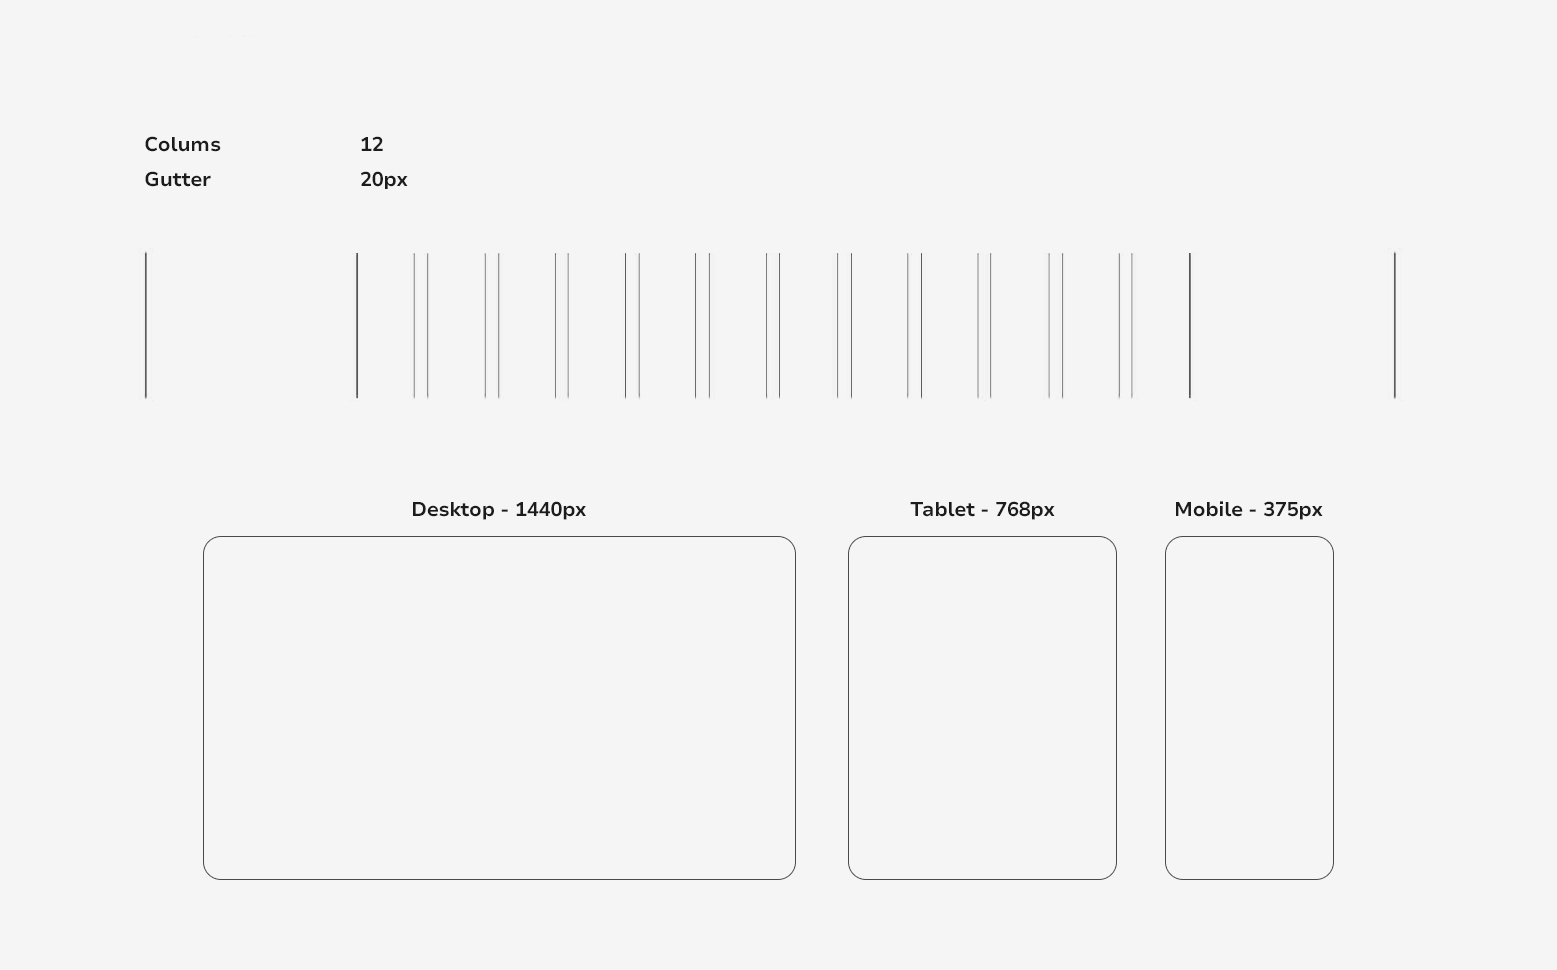
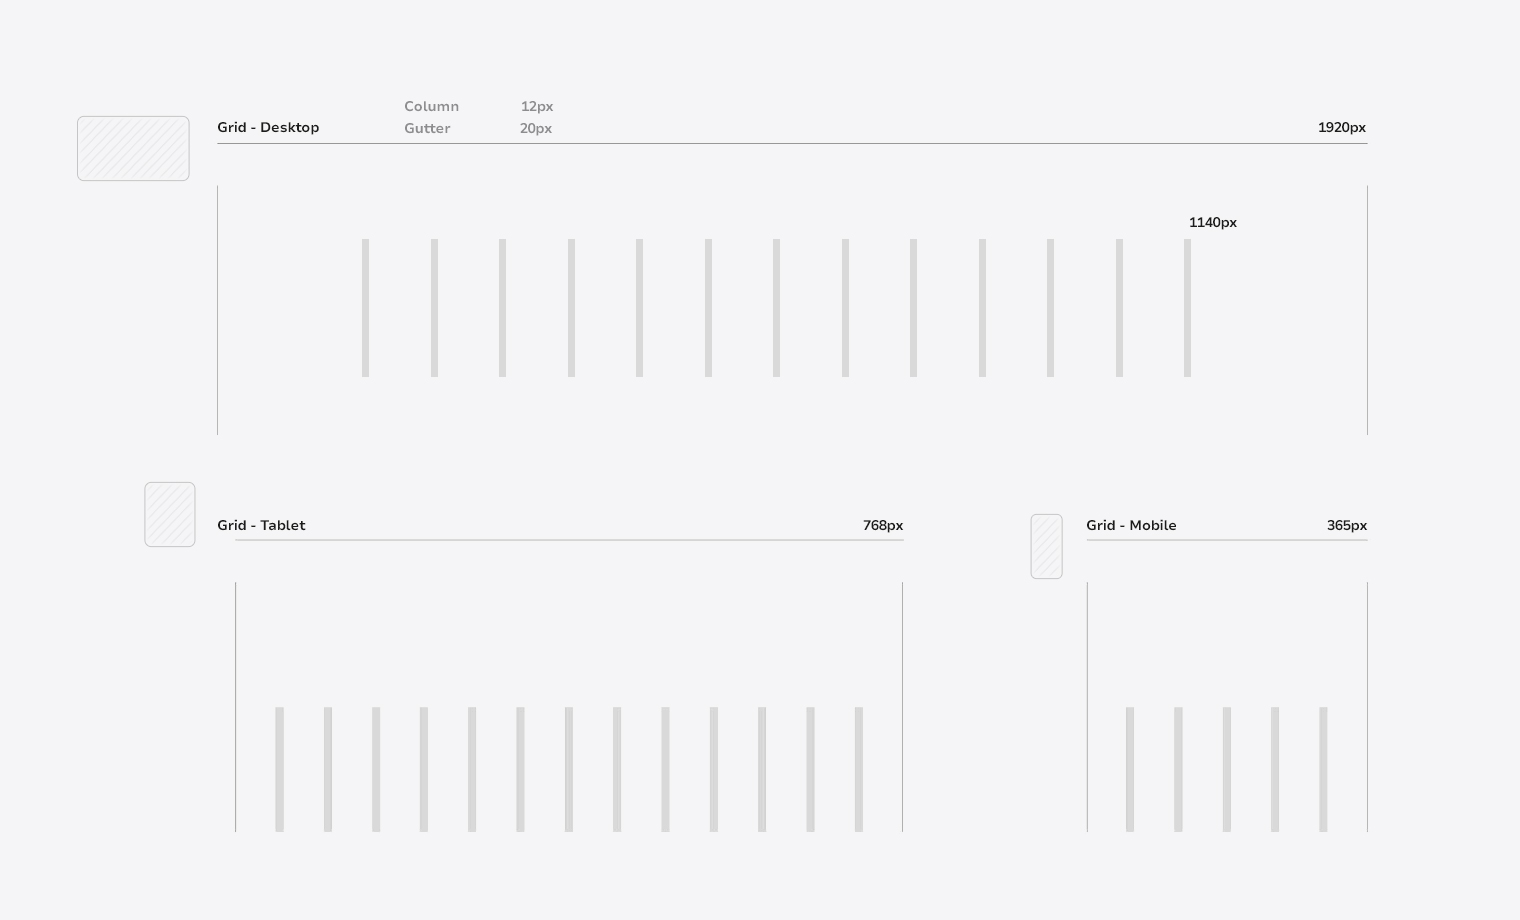
050823

diff --git a/project/goldcoasthk.html b/project/goldcoasthk.html
@@ -182,8 +182,6 @@
           <p class="observable spacing-sub-title">Reinforce the selling point of its extensive children’s facilities and array of activities and attractions</p>
 
           <p class="observable spacing-sub-title">Visually intense and vibrant flow</p>
-
-
         </ul>
       </div>
     </div>
@@ -261,12 +259,12 @@
 
 
     <div class="body-width-small observable spacing-sub-title">
-      <a class="image-popup-fit-width" title="Click on image to enlarge/reduce it"  href="../images/projects/goldcoasthk/color.jpg"><img class="observable lazy" data-src="../images/projects/goldcoasthk/grid.jpg" /></a>
+      <a class="image-popup-fit-width" title="Click on image to enlarge/reduce it"  href="../images/projects/goldcoasthk/grid.jpg"><img class="observable lazy" data-src="../images/projects/goldcoasthk/grid.jpg" /></a>
     </div>
 
 
     <div class="copy-width spacing-medium">
-        <p class="observable h1 spacing-sub-title txtpoint">Grid & Size</p>
+        <p class="observable h1 spacing-sub-title txtpoint">Grid System</p>
         <p class="observable body spacing-small">I create a scalable grid framework that is clean, clarifies information hierarchy and that can be utilized for the future.</p>
     </div>
 
@@ -406,8 +404,8 @@ Most of the users came to the website to book Golf Holiday packages, so Golf Hol
     <div class="spacing-large"></div>
 
 
-    <div class="observable spacing-copy full-width">
-        <video width="100%" autoplay="" muted loop onclick="if (typeof InstallTrigger == 'undefined') (this.paused ? this.play() : this.pause());"/><source src="../images/projects/goldcoasthk/beach.mp4" type="video/mp4"></video>
+    <div class="spacing-copy full-width">
+        <video width="100%" autoplay="" muted loop /><source src="../images/projects/goldcoasthk/beach.mp4" type="video/mp4"></video>
     </div>
 
     <div class="full-width observable parallax-section spacing-large">
@@ -415,8 +413,13 @@ Most of the users came to the website to book Golf Holiday packages, so Golf Hol
       <div class="parallax-0"><img class="lazy" data-src="../images/projects/goldcoasthk/brand_01.png"></div>
     </div>
 
+    <div class="full-width spacing-small">
+        <img class="lazy" data-src="../images/projects/goldcoasthk/mockup_01.jpg" />
+        <img class="lazy" data-src="../images/projects/goldcoasthk/mockup_02.jpg" />
+        <img class="lazy" data-src="../images/projects/goldcoasthk/mockup_03.jpg" style="top:-12px" />
+        <img class="lazy" data-src="../images/projects/goldcoasthk/mockup_04.jpg" />
+    </div>
 
-    
     <div class="spacing-large"></div>
     <div class="spacing-large"></div>
 
